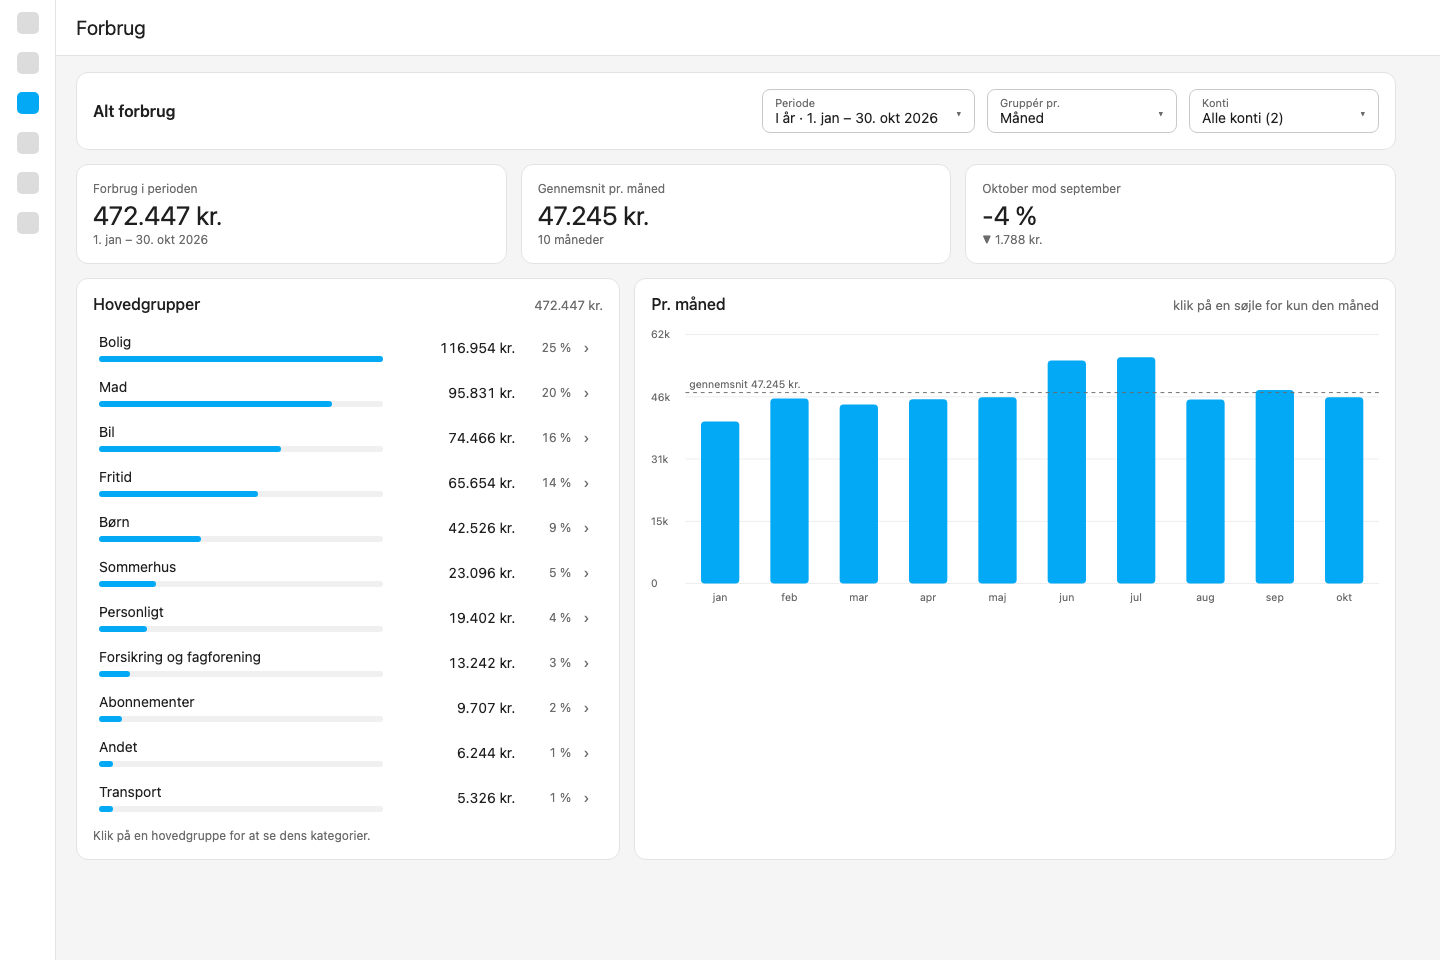
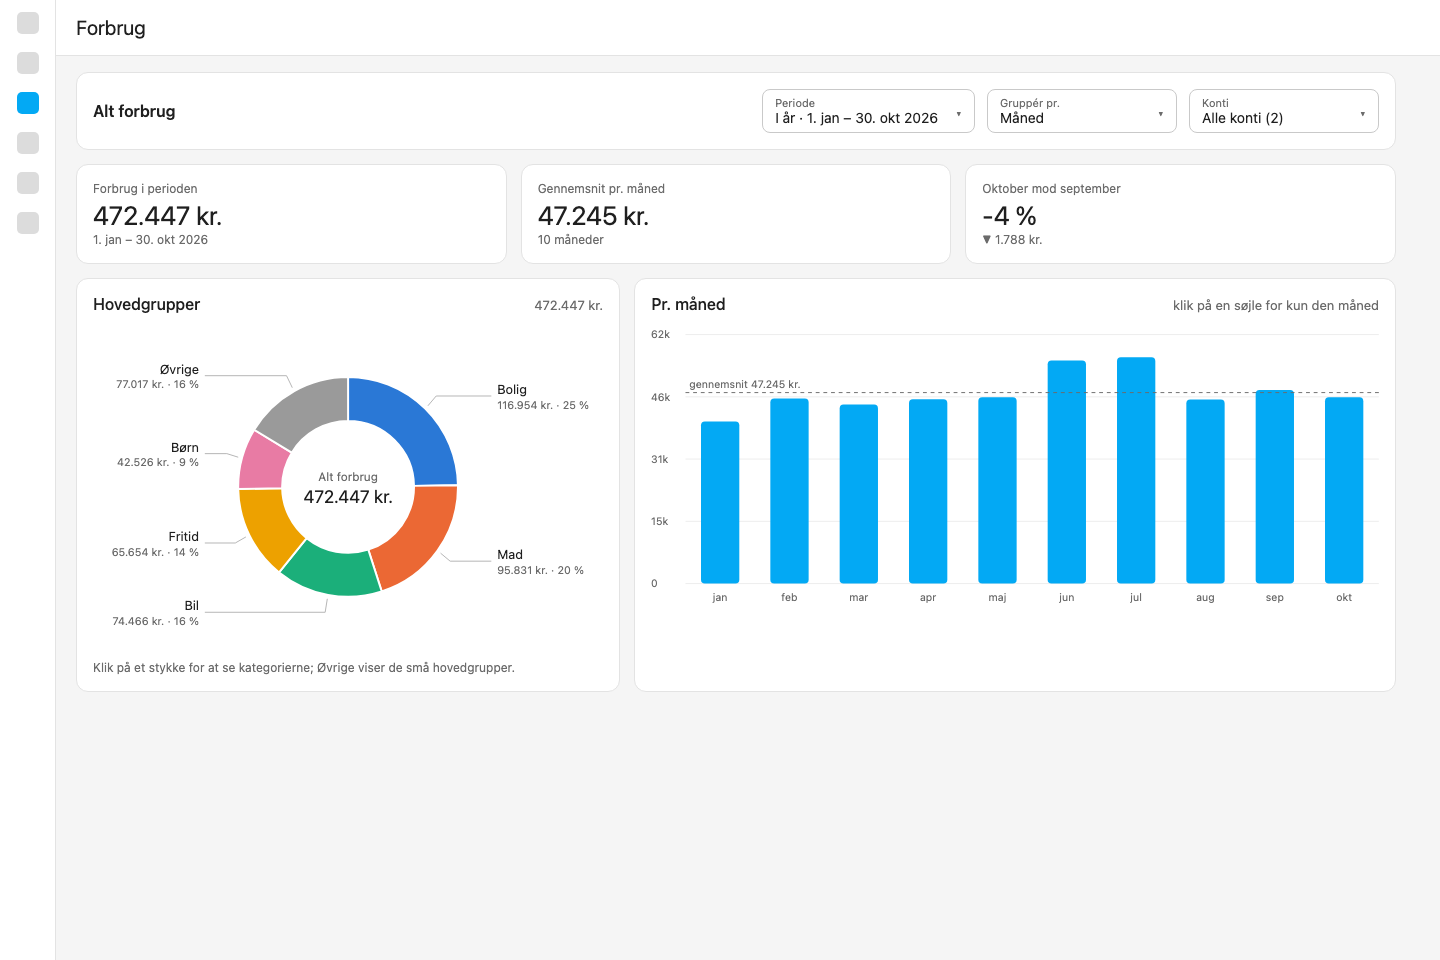
docs: screen 1 with the main groups as a circle (#3)
Variant E chosen: names, amounts and shares beside each piece.

Claude-Session: https://claude.ai/code/session_012J8exmWPh9FLEy3M4qbg4t

diff --git a/docs/mockups/v2/1-alt-forbrug.html b/docs/mockups/v2/1-alt-forbrug.html
@@ -1,6 +1,6 @@
 <!doctype html>
-<!-- Screen 1, all spending, in light mode. Three variants, ?v=a, b or c; A is the
-     one chosen, B and C stay for the record. ?open=period, grain or konti draws
+<!-- Screen 1, all spending, in light mode. Variants ?v=a to e; E (the circle
+     with names and amounts) is the one chosen; A to D stay for the record. ?open=period, grain or konti draws
      that dropdown open. Made-up numbers and names only. -->
 <html lang="da">
 <head>
@@ -143,6 +143,25 @@ function donut(list, S){
   g += `<text x="${c}" y="${c - 8}" text-anchor="middle" style="font-size:13px">Alt forbrug</text><text x="${c}" y="${c + 18}" text-anchor="middle" style="fill:var(--text);font-size:22px">${kr(t)}</text>`;
   return `<svg viewBox="0 0 ${S} ${S}" width="${S}" height="${S}">${g}</svg>`;
 }
+// The circle with each piece's name and amount outside it, spread so they do not overlap.
+function donutLabelled(list, W, H){
+  const cx = W/2, cy = H/2, r1 = Math.min(H/2 - 30, 112), r0 = r1 * 0.6, t = list.reduce((a, x) => a + x[1], 0);
+  let g = '', a = -Math.PI/2; const labels = [];
+  list.forEach(x => { const a1 = a + 2*Math.PI * x[1]/t, m = (a + a1)/2;
+    g += `<path d="${arc(cx, cy, r0, r1, a, a1)}" fill="${x[3]}" stroke="#fff" stroke-width="2"/>`;
+    labels.push({x, m, right: Math.cos(m) >= 0, y: cy + (r1 + 18)*Math.sin(m)}); a = a1; });
+  [true, false].forEach(side => {
+    const l = labels.filter(o => o.right === side).sort((p, q) => p.y - q.y);
+    for (let i = 1; i < l.length; i++) l[i].y = Math.max(l[i].y, l[i-1].y + 36);
+    for (let i = l.length - 2; i >= 0; i--) if (l[i].y > l[i+1].y - 36) l[i].y = l[i+1].y - 36;
+    l.forEach(o => { const px = cx + (r1 + 4)*Math.cos(o.m), py = cy + (r1 + 4)*Math.sin(o.m), ex = cx + (side ? 1 : -1)*(r1 + 34), tx = ex + (side ? 6 : -6), an = side ? 'start' : 'end';
+      g += `<polyline points="${px},${py} ${cx + (r1 + 16)*Math.cos(o.m)},${o.y} ${ex},${o.y}" fill="none" stroke="#b5b5b5"/>`;
+      g += `<text x="${tx}" y="${o.y - 2}" text-anchor="${an}" style="fill:var(--text);font-size:13px">${o.x[0]}</text>`;
+      g += `<text x="${tx}" y="${o.y + 13}" text-anchor="${an}">${kr(o.x[1])} · ${pct(o.x[1], t)}</text>`; });
+  });
+  g += `<text x="${cx}" y="${cy - 6}" text-anchor="middle" style="font-size:12px">Alt forbrug</text><text x="${cx}" y="${cy + 16}" text-anchor="middle" style="fill:var(--text);font-size:18px">${kr(t)}</text>`;
+  return `<svg viewBox="0 0 ${W} ${H}" width="100%">${g}</svg>`;
+}
 function spark(vals, W, H){
   const max = Math.max(...vals), bw = W / vals.length - 3;
   return `<svg viewBox="0 0 ${W} ${H}" width="100%" height="${H}">${vals.map((v, i) => `<rect x="${i*(bw+3)}" y="${H - H*v/max}" width="${bw}" height="${H*v/max}" rx="2" fill="${i === vals.length-1 ? 'var(--accent)' : '#cfe3f7'}"/>`).join('')}</svg>`;
@@ -154,6 +173,20 @@ if (V === 'a') {
   const rows = items.map(x => `<div class="row"><span class="name">${x[0]}<span class="track"><span class="fill" style="width:${Math.round(100*x[1]/items[0][1])}%"></span></span></span><span class="amt">${kr(x[1])}</span><span class="pc">${pct(x[1], total)}</span><span class="chev">›</span></div>`).join('');
   html += kpis() + `<div style="display:grid;grid-template-columns:minmax(0,5fr) minmax(0,7fr);gap:14px">
     <div class="card"><h2>Hovedgrupper<small>${kr(total)}</small></h2>${rows}<div class="foot">Klik på en hovedgruppe for at se dens kategorier.</div></div>
+    <div class="card"><h2>Pr. måned<small>klik på en søjle for kun den måned</small></h2>${bars([[perMonth, '#03a9f4']], 760, 300, total/10)}</div></div>`;
+} else if (V === 'd') {
+  // D: A with the main groups as a circle: the five largest and Øvrige, and
+  // every main group in the list below it, the rest in grey under Øvrige.
+  const row = (x, c, sub) => `<div class="row" style="${sub ? 'padding-left:26px' : ''}"><span><span class="dot" style="background:${c}"></span>${x[0]}</span><span class="amt">${kr(x[1])}</span><span class="pc">${pct(x[1], total)}</span><span class="chev">›</span></div>`;
+  const rows = six.slice(0, 5).map(x => row(x, x[3])).join('') + row(six[5], six[5][3]) + items.slice(5).map(x => row(x, '#d4d4d4', true)).join('');
+  html += kpis() + `<div style="display:grid;grid-template-columns:minmax(0,5fr) minmax(0,7fr);gap:14px">
+    <div class="card"><h2>Hovedgrupper<small>${kr(total)}</small></h2><div style="display:flex;justify-content:center;margin:4px 0 12px">${donut(six, 260)}</div>${rows}<div class="foot">Klik på et stykke eller en linje for at se kategorierne.</div></div>
+    <div class="card"><h2>Pr. måned<small>klik på en søjle for kun den måned</small></h2>${bars([[perMonth, '#03a9f4']], 760, 300, total/10)}</div></div>`;
+} else if (V === 'e') {
+  // E: as D, with the names and amounts outside the circle and no list.
+  html += kpis() + `<div style="display:grid;grid-template-columns:minmax(0,5fr) minmax(0,7fr);gap:14px">
+    <div class="card"><h2>Hovedgrupper<small>${kr(total)}</small></h2>${donutLabelled(six, 520, 330)}
+      <div class="foot">Klik på et stykke for at se kategorierne; Øvrige viser de små hovedgrupper.</div></div>
     <div class="card"><h2>Pr. måned<small>klik på en søjle for kun den måned</small></h2>${bars([[perMonth, '#03a9f4']], 760, 300, total/10)}</div></div>`;
 } else if (V === 'b') {
   // B: the circle first, with its legend as the list; the months below, stacked in the same colours.

diff --git a/docs/mockups/README.md b/docs/mockups/README.md
@@ -24,4 +24,4 @@ One screen at a time, three variants each, one chosen. Under [`v2/`](v2/).
 
 | Screen | Chosen | Shows |
 | --- | --- | --- |
-| [1](v2/1-alt-forbrug.png) | A | All spending: key numbers, the main groups in one colour, the months with the average. Period, grouping and accounts are dropdowns: [period](v2/1-alt-forbrug-period.png) with "Vælg periode …", [grouping](v2/1-alt-forbrug-grain.png), [accounts](v2/1-alt-forbrug-konti.png) |
+| [1](v2/1-alt-forbrug.png) | E | All spending: key numbers, the main groups as a circle with each piece's name, amount and share beside it (the five largest and Øvrige), the months with the average. Period, grouping and accounts are dropdowns: [period](v2/1-alt-forbrug-period.png) with "Vælg periode …", [grouping](v2/1-alt-forbrug-grain.png), [accounts](v2/1-alt-forbrug-konti.png). Tried: [A, a list](v2/1-alt-forbrug-liste.png), [D, a circle with a list](v2/1-alt-forbrug-cirkel-liste.png) |
